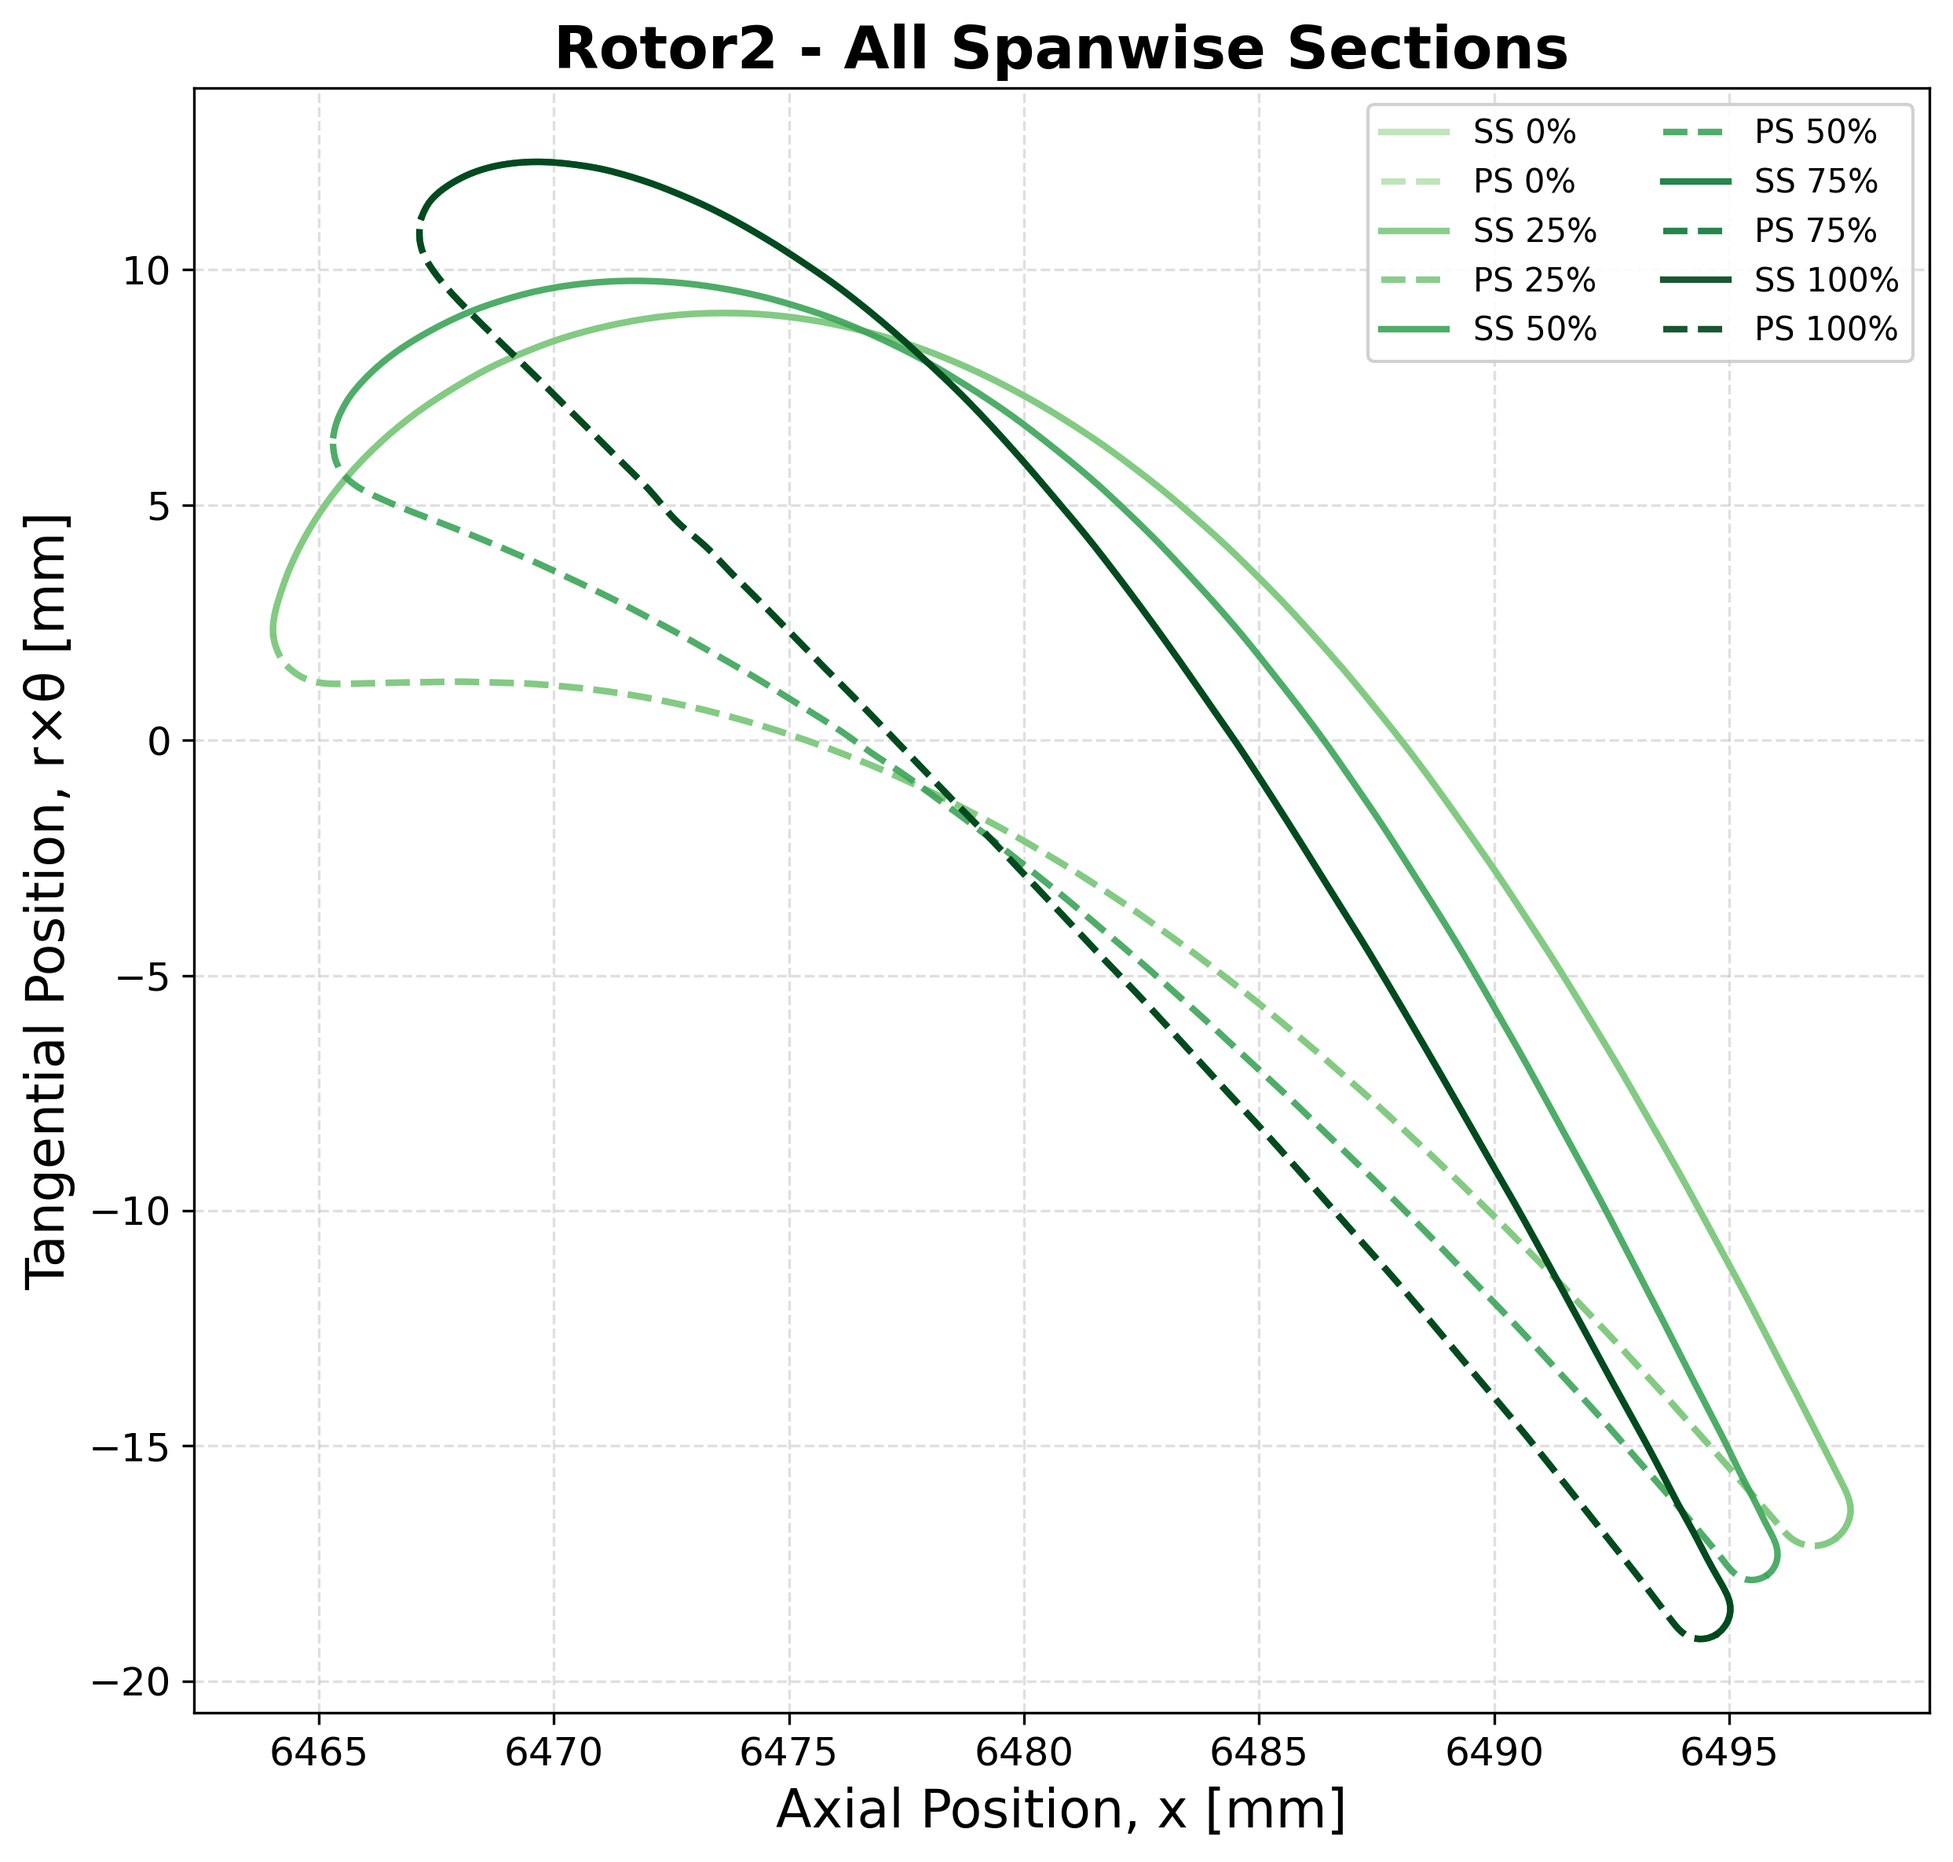
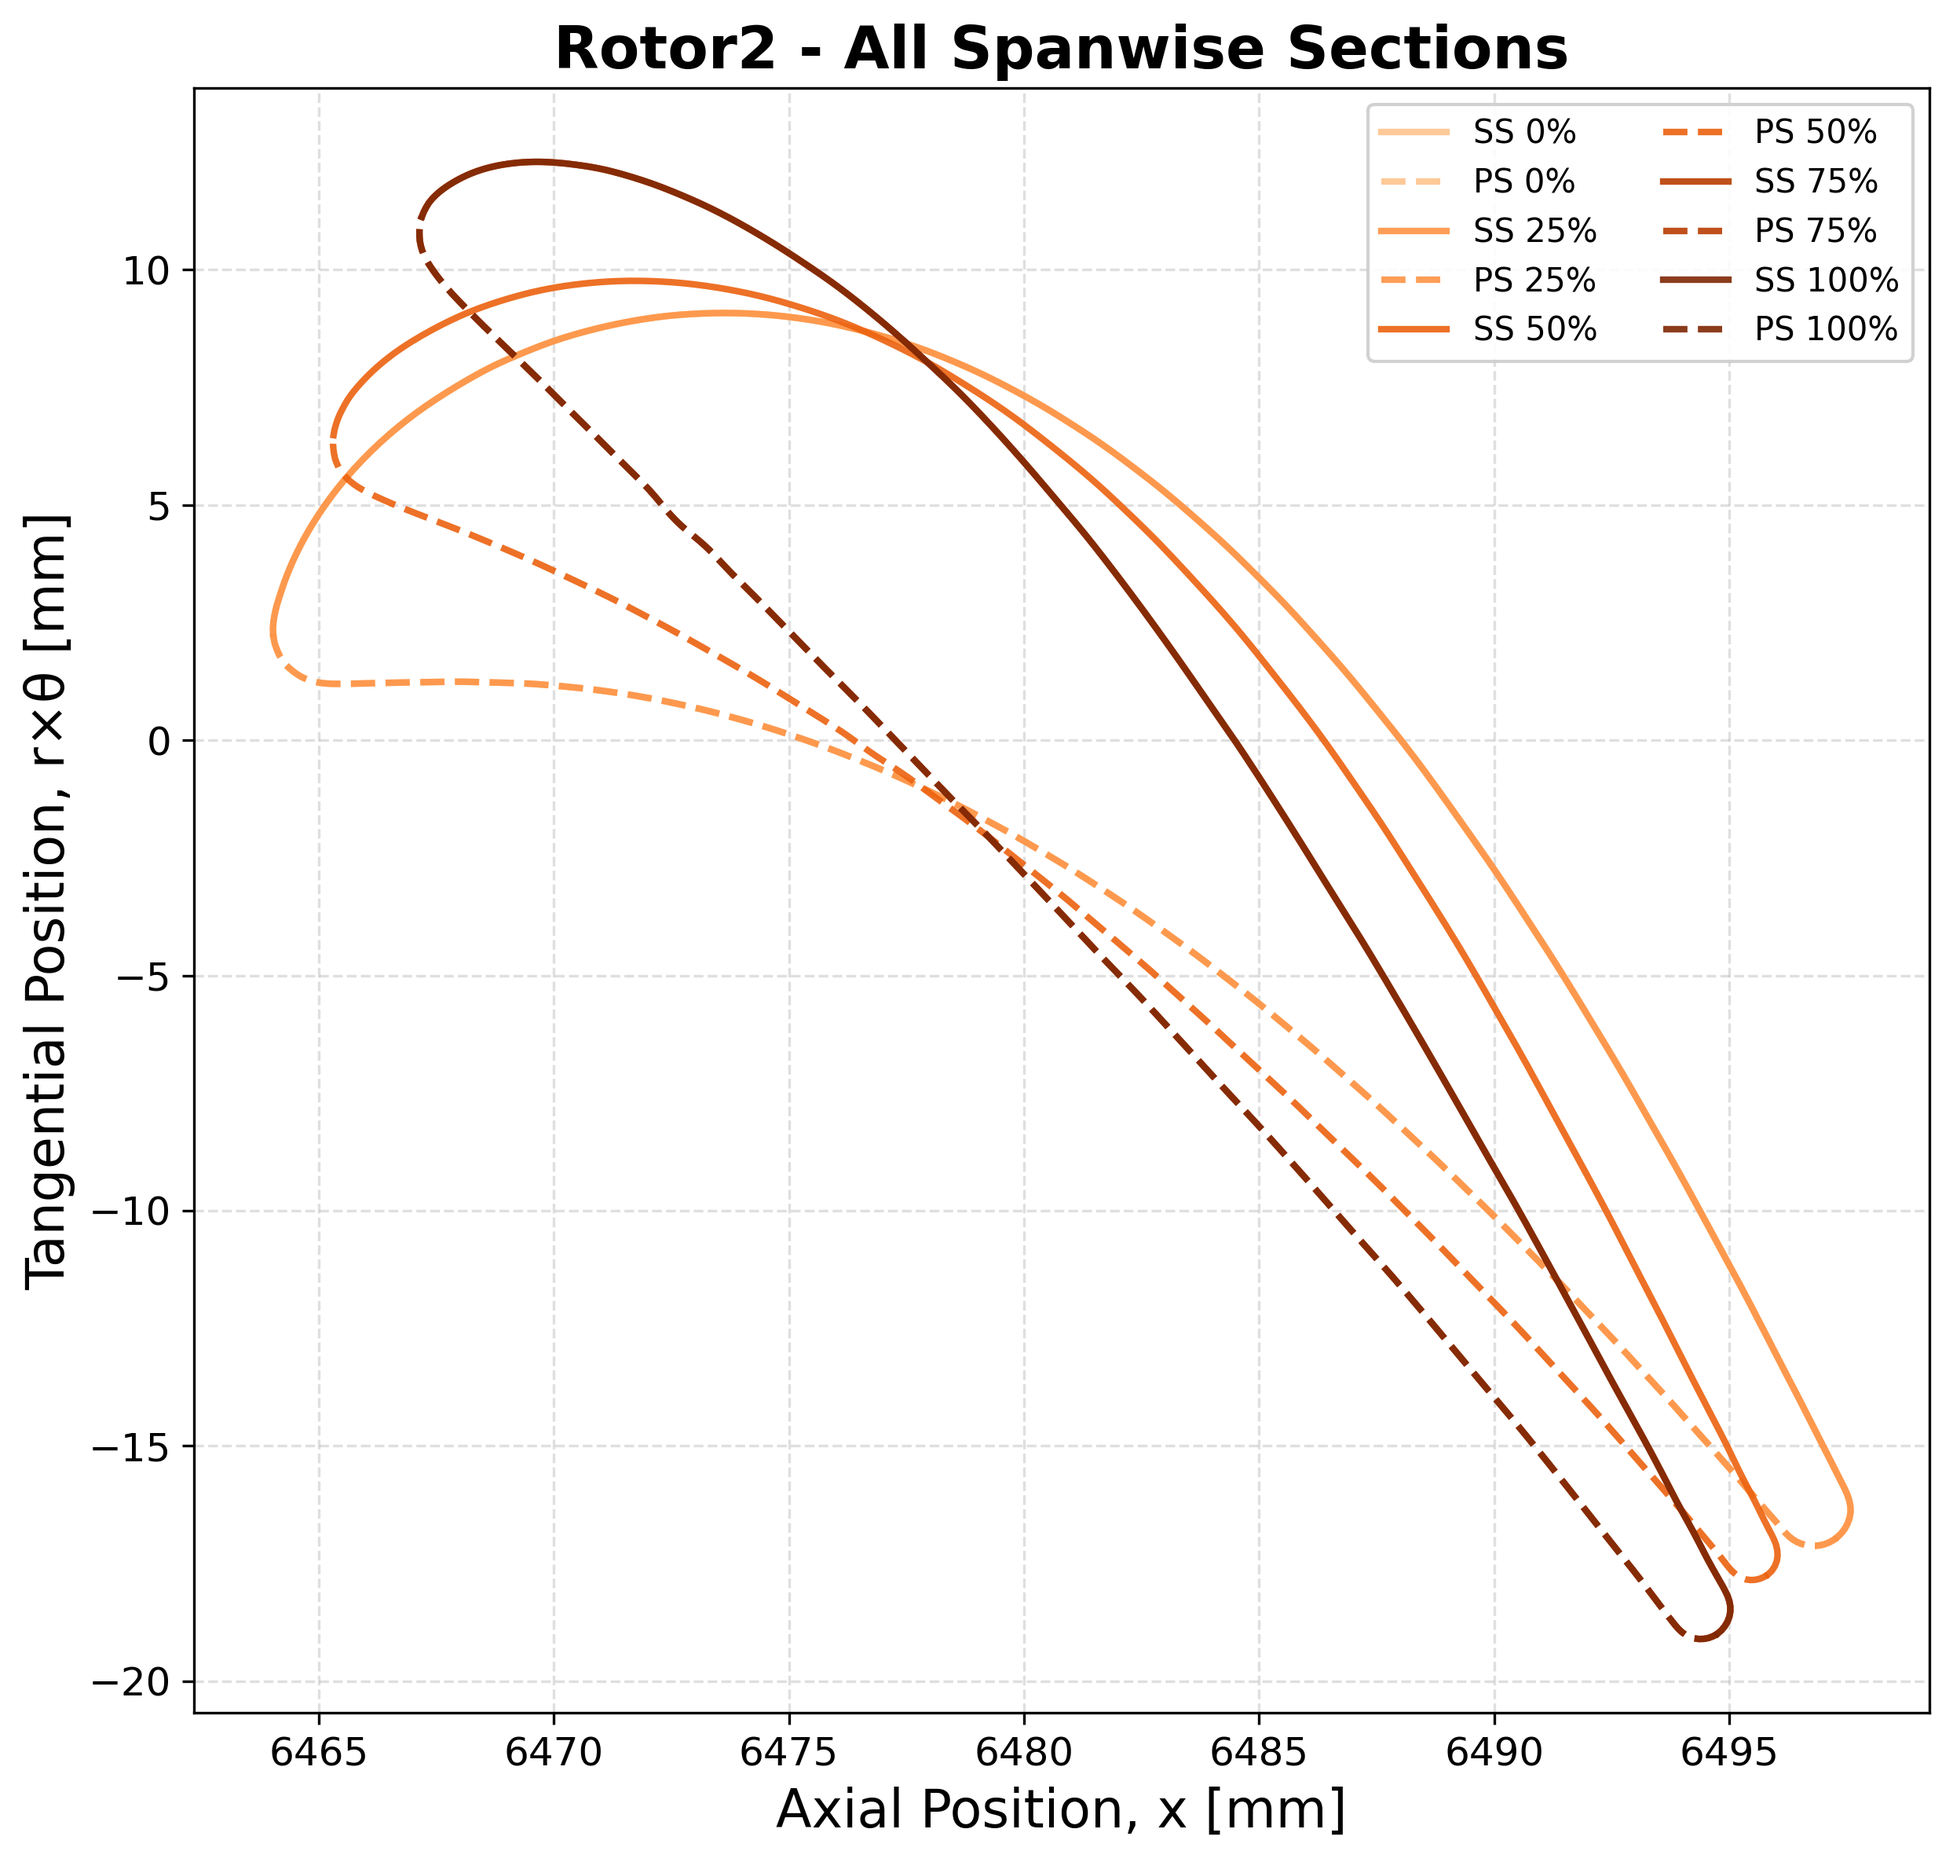
fixes to plot code

diff --git a/examples/EEE-HPT/eee_hpt_process_geometry.py b/examples/EEE-HPT/eee_hpt_process_geometry.py
@@ -363,7 +363,7 @@ def plot_blade(ss: npt.NDArray, ps: npt.NDArray, output_path: Path, name: str, b
         ps: Pressure side points (nsections, npts, 3)
         output_path: Directory to save the plot
         name: Name for the plot file
-        base_color: Base color for the gradient ('blue', 'orange', 'purple', 'green')
+        base_color: Base color for the gradient ('blue', 'orange', 'purple', 'green', 'red')
     """
     import matplotlib.colors as mcolors
 
@@ -374,7 +374,8 @@ def plot_blade(ss: npt.NDArray, ps: npt.NDArray, output_path: Path, name: str, b
         'blue': plt.cm.Blues,
         'orange': plt.cm.Oranges,
         'purple': plt.cm.Purples,
-        'green': plt.cm.Greens
+        'green': plt.cm.Greens,
+        'red': plt.cm.Reds
     }
 
     cmap = color_maps.get(base_color, plt.cm.Blues)
@@ -420,19 +421,24 @@ def plot_all_blades_combined(blades: List[Tuple[npt.NDArray, npt.NDArray]],
         blades: List of (suction_side, pressure_side) tuples for all blade rows
         output_path: Directory to save the plot
         blade_names: Names for each blade row (e.g., ['Stator1', 'Rotor1', ...])
-        blade_colors: Color names for each blade row (e.g., ['blue', 'orange', ...])
+        blade_colors: Color names for each blade row (e.g., ['green', 'red', 'purple', 'orange'])
     """
     import matplotlib.colors as mcolors
+    from matplotlib.lines import Line2D
 
-    fig, ax = plt.subplots(figsize=(16, 10))
+    fig, ax = plt.subplots(figsize=(18, 11))
 
     # Define color maps for different blades
     color_maps = {
         'blue': plt.cm.Blues,
         'orange': plt.cm.Oranges,
         'purple': plt.cm.Purples,
-        'green': plt.cm.Greens
+        'green': plt.cm.Greens,
+        'red': plt.cm.Reds
     }
+
+    # Custom legend elements
+    legend_elements = []
 
     for blade_idx, (ss, ps) in enumerate(blades):
         blade_name = blade_names[blade_idx]
@@ -440,35 +446,40 @@ def plot_all_blades_combined(blades: List[Tuple[npt.NDArray, npt.NDArray]],
         cmap = color_maps.get(base_color, plt.cm.Blues)
         n_sections = ss.shape[0]
 
-        # Create color gradient from light to dark (hub to tip)
+        # Create color gradient from dark to light (hub to tip)
         colors = [cmap(0.3 + 0.7 * i / (n_sections - 1)) for i in range(n_sections)]
 
+        # Store hub and tip colors for legend
+        hub_color = colors[0]  # Dark = hub (0%)
+        tip_color = colors[-1]  # Light = tip (100%)
+
         for section_idx in range(n_sections):
-            percent_span = (section_idx / (n_sections - 1)) * 100 if n_sections > 1 else 50
             color = colors[section_idx]
 
-            # Add blade name to first section only
-            if section_idx == 0:
-                label_ss = f'{blade_name} SS {percent_span:.0f}%'
-                label_ps = f'{blade_name} PS {percent_span:.0f}%'
-            else:
-                label_ss = f'{blade_name} SS {percent_span:.0f}%'
-                label_ps = f'{blade_name} PS {percent_span:.0f}%'
-
-            # Plot suction side (solid line)
+            # Plot suction side (solid line) - no labels
             ax.plot(ss[section_idx, :, 0], ss[section_idx, :, 1],
-                   '-', color=color, linewidth=1.8, alpha=0.85, label=label_ss)
+                   '-', color=color, linewidth=2, alpha=0.85)
 
-            # Plot pressure side (dashed line)
+            # Plot pressure side (dashed line) - no labels
             ax.plot(ps[section_idx, :, 0], ps[section_idx, :, 1],
-                   '--', color=color, linewidth=1.8, alpha=0.85, label=label_ps)
+                   '--', color=color, linewidth=2, alpha=0.85)
 
-    ax.set_xlabel('Axial Position, x [mm]', fontsize=16)
-    ax.set_ylabel('Tangential Position, r×θ [mm]', fontsize=16)
-    ax.set_title('All Blade Rows - Spanwise Sections with Percent Span', fontsize=18, fontweight='bold')
-    ax.legend(fontsize=8, ncol=4, loc='best', framealpha=0.9)
+        # Add custom legend entries for this blade (hub and tip only)
+        legend_elements.append(Line2D([0], [0], color=hub_color, linewidth=3,
+                                     label=f'{blade_name} Hub (0%)'))
+        legend_elements.append(Line2D([0], [0], color=tip_color, linewidth=3,
+                                     label=f'{blade_name} Shroud (100%)'))
+
+    ax.set_xlabel('Axial Position, x [mm]', fontsize=22)
+    ax.set_ylabel('Tangential Position, r×θ [mm]', fontsize=22)
+    ax.set_title('All Blade Rows - Spanwise Sections with Percent Span', fontsize=24, fontweight='bold')
+
+    # Create custom legend with only hub and tip entries
+    ax.legend(handles=legend_elements, fontsize=16, ncol=2,
+             loc='lower right', framealpha=0.95, borderaxespad=1)
+
     ax.grid(True, linestyle='--', alpha=0.4)
-    ax.tick_params(axis='both', labelsize=12)
+    ax.tick_params(axis='both', labelsize=16)
     ax.axis('scaled')
 
     # Add minor gridlines
@@ -549,8 +560,9 @@ def process_geometry(script_dir: Path, npts: int = 400) -> dict:
     plt.close(fig)
 
     # Step 7: Plot all spanwise sections for each blade with color gradients
+    # Colors match the meridional view: Green, Red, Purple, Orange
     labels = ['Stator1', 'Rotor1', 'Stator2', 'Rotor2']
-    colors = ['blue', 'orange', 'purple', 'green']
+    colors = ['green', 'red', 'purple', 'orange']
     print("Creating blade profile plots with percent span gradients...")
     for i, (ss, ps) in enumerate(processed_data):
         plot_blade(ss, ps, script_dir, labels[i], base_color=colors[i])
